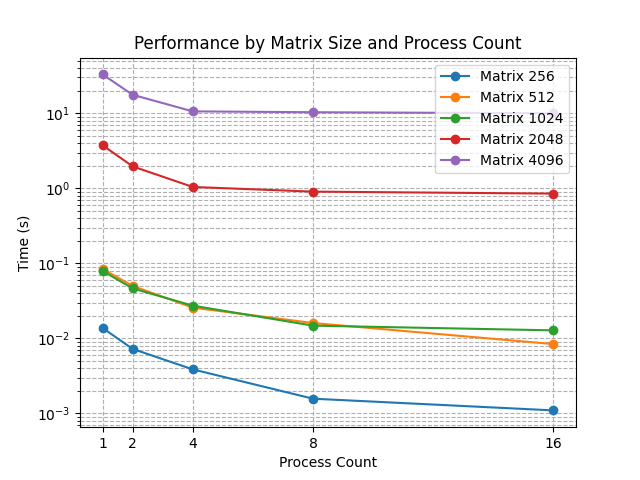
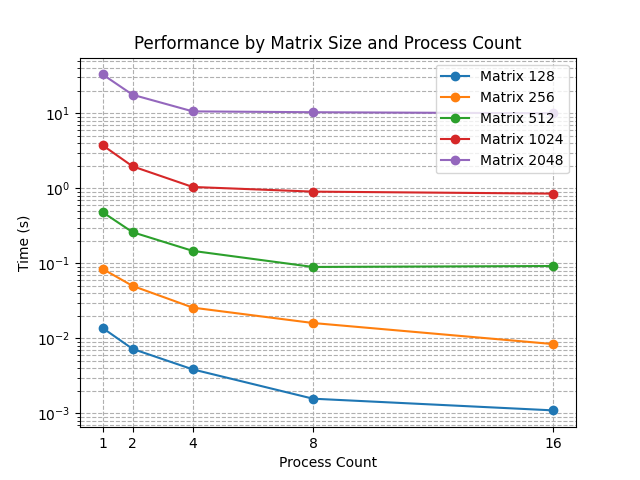
update

diff --git a/table.py b/table.py
@@ -3,18 +3,18 @@ import matplotlib.pyplot as plt
 
 # 你提供的数据
 table = np.array([
-    [0.013769, 0.084312, 0.079238, 3.753396, 32.983432],
-    [0.007233, 0.050017, 0.046357, 1.961918, 17.653807],
-    [0.003861, 0.025685, 0.027290, 1.042281, 10.603551],
-    [0.001570, 0.016018, 0.014778, 0.903420, 10.331040],
-    [0.001096, 0.008387, 0.012779, 0.849642, 9.993411]
+    [0.013769, 0.084312, 0.481108, 3.753396, 32.983432],
+    [0.007233, 0.050017, 0.260021, 1.961918, 17.653807],
+    [0.003861, 0.025685, 0.146547, 1.042281, 10.603551],
+    [0.001570, 0.016018, 0.089492, 0.903420, 10.331040],
+    [0.001096, 0.008387, 0.092121, 0.849642, 9.993411]
 ])
 
 # 进程数
 process_counts = np.array([1, 2, 4, 8, 16])
 
 # 矩阵规模
-matrix_sizes = ['256', '512', '1024', '2048', '4096']
+matrix_sizes = ['128', '256', '512', '1024', '2048']
 
 # 遍历每一列来绘制曲线图
 for i in range(table.shape[1]):

diff --git a/PP3/mm_pthreads.c b/PP3/mm_pthreads.c
@@ -5,7 +5,7 @@
 
 long thread_cnt;
 float* A, *B, *C;
-const long N = 2048;
+const long N = 512;
 long avg_rows;
 
 int counter;

diff --git a/PP3/PP3.md b/PP3/PP3.md
@@ -196,15 +196,15 @@ N = 512
 
 ```bash
 ❯ ./mm.out 1
-Max elapsed time among all threads: 0.079238 seconds.
+Max elapsed time among all threads: 0.481108 seconds.
 ❯ ./mm.out 2
-Max elapsed time among all threads: 0.046357 seconds.
+Max elapsed time among all threads: 0.260021 seconds.
 ❯ ./mm.out 4
-Max elapsed time among all threads: 0.027290 seconds.
+Max elapsed time among all threads: 0.146547 seconds.
 ❯ ./mm.out 8
-Max elapsed time among all threads: 0.014778 seconds.
+Max elapsed time among all threads: 0.089492 seconds.
 ❯ ./mm.out 16
-Max elapsed time among all threads: 0.012779 seconds.
+Max elapsed time among all threads: 0.092121 seconds.
 ```
 
 N = 1024
@@ -236,4 +236,16 @@ Max elapsed time among all threads: 10.331040 seconds.
 ❯ ./mm.out 16
 Max elapsed time among all threads: 9.993411 seconds.
 ```
+
+绘制成表格：
+
+| P\N  | 128      | 256      | 512      | 1024     | 2048      |
+| ---- | -------- | -------- | -------- | -------- | --------- |
+| 1    | 0.013769 | 0.084312 | 0.481108 | 3.753396 | 32.983432 |
+| 2    | 0.007233 | 0.050017 | 0.260021 | 1.961918 | 17.653807 |
+| 4    | 0.003861 | 0.025685 | 0.146547 | 1.042281 | 10.603551 |
+| 8    | 0.001570 | 0.016018 | 0.089492 | 0.903420 | 10.331040 |
+| 16   | 0.001096 | 0.008387 | 0.092121 | 0.849642 | 9.993411  |
+
+可视化：
 
